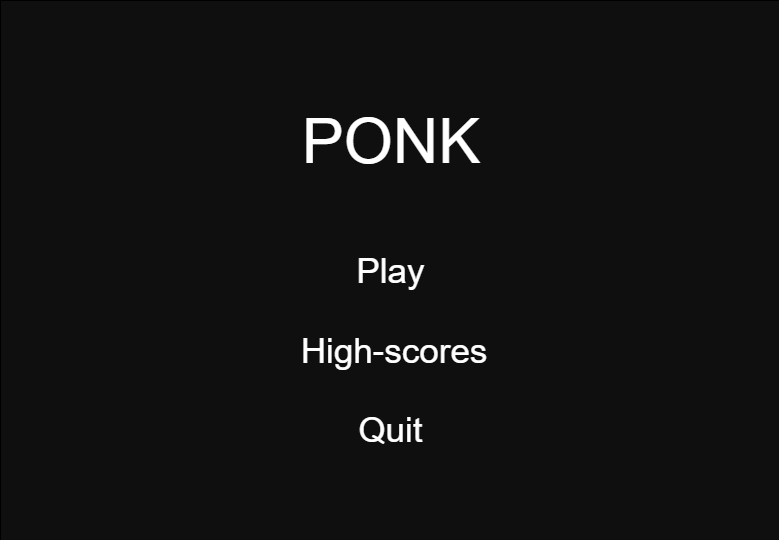
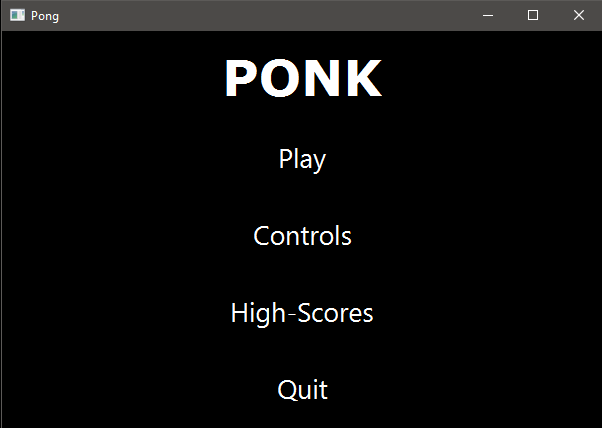
Päivitetty dokumentaatiota

diff --git a/dokumentointi/arkkitehtuuri.md b/dokumentointi/arkkitehtuuri.md
@@ -2,7 +2,7 @@
 
 ## Rakenne
 
-![Pakkauskaavio](kuvat/pakkauskaavio_v2.png)
+![Pakkauskaavio](kuvat/pakkauskaavio_v3.png)
 
 Pakkaus _pong.ui_ sisältää JavaFX:n avulla toteutetun käyttöliittymän muodostavat luokat. Pakkaus _pong.domain_ sisältää sovelluslogiikasta vastaavat luokat ja pakkaus _pong.dao_ tiedon pysyväistallennuksesta vastaavan luokan.
 
@@ -12,15 +12,15 @@ Sovelluksen käyttöliittymä koostuu seitsemästä eri näkymästä:
 
 * päävalikko
 * kontrollit/käyttöohje
-* pelaajien nimensyöttö
+* pelaajien nimimerkinsyöttö
 * pelimuodon valinta
 * varsinainen pelinäkymä
 * pelin lopputulos
 * pistetilastot
 
-Näkymät on toteutettu JavaFX:n Scene-olioina, jotka tarvittaessa näytetään sovellusikkunan muodostavassa Stage-oliossa. Pelinäkymä on toteutukseltaan monimutkaisin, sillä se huolehtii käynnissä olevan pelin reaaliaikaisesta piirtämisestä käyttämällä pakkauksen _pong.domain_ sovelluslogiikkaluokkia ja kutsumalla niiden metodeja.
+Näkymistä suurin osa on toteutettu JavaFX:n Scene-olioita hyödyntävinä omina luokkinaan, joiden _display_-metodia kustsumalla näkymä asetetaan aktiiviseksi sovellusikkunan muodostavassa Stage-oliossa. Pelinäkymä on toteutukseltaan monimutkaisin, sillä se huolehtii käynnissä olevan pelin reaaliaikaisesta piirtämisestä käyttämällä pakkauksen _pong.domain_ sovelluslogiikkaluokkia ja kutsumalla niiden metodeja.
 
-Pelin lopputuloksen näyttävä näkymä ja pistetilastoista vastaava näkymä käyttävät lisäksi _pong.dao_ pakkauksen luokkaa _SQLScoreDAO_ tietokantaan kirjoittaessaan ja sieltä lukiessaan.
+Pelin lopputuloksen näyttävä näkymä ja pistetilastoista vastaava näkymä ulkoistavat tiedon pysyväistallennukseen liittyvän toiminnallisuuden _pong.domain_ pakkauksen luokalle _ScoreService_. 
 
 ## Sovelluslogiikka
 
@@ -28,17 +28,19 @@ Pelin toiminnallisuudesta vastaa sovelluslogiikkaluokat _Ball_ ja _Paddle_. Käy
 
 ![Luokkakaavio](kuvat/luokkakaavio.png)
 
-Yksittäisten aikarajoitettujen pelien lopputulokset tallennetaan pelin päättyessä tietokantaan, joten pelin pisteiden ja pelaajien nimien hallintaa varten tarvitaan _Score_-luokan tarjoama tietorakenne. Pakkauksesta _pong.dao_ löytyvä _SQLScoreDAO_ käyttää näitä _Score_-olioita tietokannan tiedon jäsentämiseen.
+Yksittäisten aikarajoitettujen pelien lopputulokset tallennetaan pelin päättyessä tietokantaan, joten pelin pisteiden ja pelaajien nimien hallintaa varten käytössä on _Score_-luokan tarjoama tietorakenne. Pakkauksesta _pong.dao_ löytyvä _SQLScoreDAO_ käyttää näitä _Score_-olioita tiedon jäsentämiseen tietokannan ulkopuolella.
+
+_ScoreService_-luokan tehtävä on tarjota käyttöliittymälle _pong.dao_ pakkauksesta löytyvää tiedon tallennukseen ja lukemiseen liittyvää toiminnallisuutta. _ScoreService_ käyttää _ScoreDAO_-rajapinnan toteuttavaa _SQLScoreDAO_:a tiedon tallentamiseksi tietokantaan.
 
 ## Tiedon pysyväistallennus
 
-Pakkauksen _pong.dao_ luokka _SQLScoreDAO_ käyttää jdbc:n sqlite-kirjastoa pisteiden tietokantaan tallennukseen ja pisteiden hakemiseen tietokannasta. Tällä hetkellä käyttöliittymä käyttää _SQLScoreDAO_:a suoraan, mutta tavoitteena on ulkoistaa sen käyttö sopivalle sovelluslogiikkaluokalle.
+Pakkauksen _pong.dao_ luokka _SQLScoreDAO_ käyttää jdbc:n sqlite-kirjastoa pisteiden tietokantaan tallennukseen ja pisteiden hakemiseen tietokannasta. Käyttöliittymä käyttää sovelluslogiikasta vastaavan _pong.domain_-pakkauksen _ScoreService_-luokkaa _SQLScoreDAO_:n tarjoamien palveluiden kutsumiseen.
 
 ## Tiedostot
 
 Sovellus tallentaa pelattujen aikarajoitettujen pelien lopputulokset tietokantaan. Sovelluksen juurihakemistossa oleva konfiguraatiotiedosto _config.properties_ määrittelee käytettävän tietokannan nimen, joten sitä on mahdollista vaihtaa sovelluksen ulkopuolelta.
 
-Tietokantaan pisteet talletetaan seuraavassa formaatissa:
+Otteluiden loppupisteet talletetaan tietokantaan seuraavassa formaatissa:
 
 <pre>
 CREATE TABLE score (
@@ -61,3 +63,17 @@ Todellisuudessa pelinäkymästä vastaava käyttöliittymäluokka _PongUI_ luo p
 ![Sekvenssikaavio1](kuvat/PaddleSeqDiagram.png)
 
 Tästä sekvenssikaaviosta on jätetty pois palloon liittyvät metodikutsut, ja pyritty korostamaan vain mailojen liikuttamiseen liittyvää toiminnallisuutta. Päävalikon Play-painiketta klikkaamalla siirrytään pelinäkymään. Pelinäkymässä käytetään hajautustaulua pohjassa pidettyjen näppäinten seuraamiseksi. AnimationTimer-luokan handle-metodissa tarkisteaan onko pelin kannalta merkittäviä näppäimiä painettuna. Jos esimerkiksi 'W' on painettuna, kutsuu _PongUI_ vasemmanpuoleiseen mailaan viittaavan leftPaddle-olion metodia move, jolle on annettu parametriksi -10 kuvaamaan kymmenen askeleen siirtymää ylöspäin näkymän Y-akselilla. Move-metodi itse huolehtii, ettei siirtymä aiheuta mailan poistumista pelialueen ulkopuolelle.
+
+**Pallon liikkuminen**
+
+_PongUI_-luokassa toimiva JavaFX:n AnimationTimer ja sen handle-metodi piirtää ruudulle pallon ja kutsuu jokaisella tulevalla piirtokerralla _Ball_-luokan metodia _update_, joka päivittää pallon suhteellisia X- ja Y-koordinaatteja sen attribuutteina olevien X- ja Y-nopeuksien mukaisesti. _Update_-metodi tekee myös samalla tarkistuksia pallon sijannista. Jos pallon Y-koordinaatti on ylittämässä pelialueen rajat, pallo palautetaan rajojen sisäpuolelle ja sen Y-nopeus käännetään. Jos pallo osuu pelialueen vasempaan tai oikeaan laitaan, pallo palautetaan pelialueen keskelle ja vastakkaiselle pelaajalle lisätään piste.
+
+Jotta pelistä saataisiin mielenkiintoisempi, arvotaan pallon lähtösuunta ja -kulma aina pallon keskelle palauttavan _reset_-metodin kutsun yhteydessä metodin _randomizeDircetionAndSpeed_ avulla. Välttääkseen tilanteen, jossa pallon lähtökulma olisi liian suuri ja pallo jäisi kimpoilemaan ylä- ja alareunojen välille, metodi valitsee lähtökulman 45 ja -45 asteen väliltä ja 50% todennäköisyydellä lähtösuunta on vastakkainen.
+
+Liikkuvan pallon toiminnan esittäminen sekvenssikaaviona on haastavaa, joten jätän sen piirtämättä.
+
+**Pisteiden tallentaminen**
+
+Aikarajoitetun ottelun päätteeksi sovellus siirtyy "Game Over" -näkymään, jossa lopullinen pistetilanne myös esitetään. Pakkauksesta _pong.ui_ löytyvä käyttöliittymäluokka _GameOver_ luo lopputulosta vastaavan _Score_-olion ja uuden _SQLScoreDAO_-olion. _SQLScoreDAO_:n konstruktorissa haetaan metodilla _getScoreFile_ sovelluksen suoritushakemistosta tiedoston _config.properties_ sisältämä tieto luotavan tietokannan tiedostonimestä, ja luodaan kyseinen tietokanta, jollei sellaista ole jo olemassa. Tietokantaan luodaan myös tarvittava _Score_-taulu, mikäli sitä ei ole jo luotu.
+
+_GameOver_ luo myös _ScoreService_-olion, jolle konstruktorin kautta injektoidaan aiemmin luotu _SQLScoreDAO_. _ScoreService_ käyttää injektoidun DAO:n metodeja tarjotakseen käyttöliittymälle sen tarvitseman tiedon tallennuspalvelun.

diff --git a/dokumentointi/vaatimusmaarittely.md b/dokumentointi/vaatimusmaarittely.md
@@ -4,7 +4,7 @@
 
 Sovelluksen avulla kaksi käyttäjää voi pelata jaetulla näppäimistöllä klassisen Pong-videopelin kaltaista yksinkertaista peliä. Pelissä osapuolet liikuttavat pelikentän oikealla tai vasemmalla puolella olevia "mailoja" pystyakselin suuntaisesti tarkoituksenaan kerätä pisteitä kimmottamalla pelikentällä liikkuva pallo vastustajan puoleiseen laitaan ja torjumalla vastapuolen yrityksiä tehdä maaleja.
 
-## Käyttöliittymäluonnos
+## Käyttöliittymä
 
 Sovelluksen kaksi tärkeintä näkymää ovat sen päävalikko ja itse pelinäkymä.
 
@@ -13,20 +13,21 @@ Sovelluksen kaksi tärkeintä näkymää ovat sen päävalikko ja itse pelinäky
 
 ![Pelinäkymä](kuvat/pelinakyma.png)
 
-Sovellus aukeaa päävalikkonäkymään, josta on mahdollista siirtyä pelinäkymään tai muihin mahdollisiin näkymiin.
+Sovellus aukeaa käynnistyessään päävalikkonäkymään, josta on mahdollista siirtyä muihin näkymiin.
 
-## Perusversion tarjoama toiminnallisuus
+## Sovelluksen tarjoama toiminnallisuus
 
 * käyttäjä voi aloittaa ja keskeyttää pelin
+* pelaajille annetaan nimimerkit mahdollista tulosten tallennusta varten
+* pelissä on kaksi pelitilaa, aikarajoitetettu minuutin mittainen peli ja päättymätön pelitila
 * pelissä molempia mailoja liikutetaan näppäimistön avulla, mikä mahdollistaa kaksinpelin
-* liikkuvan pallon osuminen mailaan aiheuttaa asianmukaisen kimpoamisen
-* pallon osuessa vastustajan päätyyn, maalin tekijälle lisätään piste ja peli jatkuu aloitustilanteesta
+* liikkuvan pallon osuminen mailaan tai pelikentän reunoihin aiheuttaa asianmukaisen kimpoamisen
+* pallon osuessa vastustajan päätyyn, maalin tekijälle lisätään piste ja pallo palautuu keskelle pelialuetta
+* pallon lähtösuunta ja -kulma arvotaan joka kerta kun pallo palautuu keskelle maalin tai uuden pelin aloituksen johdosta
+* aikarajoitetun pelin päätteeksi ottelun pistetilanne tallennetaan tietokantaan
+* aikaisempien otteluiden tuloksia voi tarkastella päävalikosta löytyvän High-Score -näkymän kautta
 
 ## Jatkokehitysideoita
 
-Perustoiminnallisuuksien toteuttamisen jälkeen sovellusta voidaan täydentää esim. seuraavilla ominaisuuksilla:
-
-* pelimuotoina erikseen aikarajoitettu- ja rajoittamaton peli
-* huippupisteiden tai -aikojen tallentaminen tiedostoon tai tietokantaan ja niiden tarkastelu
-* yksinkertainen tekoäly, joka mahdollistaa yksinpelin
-* vaihtoehtoisia pelikenttiä, joissa mukana myös esteitä tms.
+* yksinkertainen tekoäly, joka mahdollistaisi myös yksinpelin
+* asetusvalikko, josta mm. sovellusikkunan, mailojen ja pallon kokoa voisi vaihtaa

diff --git a/dokumentointi/kayttoohje.md b/dokumentointi/kayttoohje.md
@@ -4,7 +4,7 @@ Lataa tiedosto [pong.jar](https://github.com/TimoJarvenpaa/ot-harjoitustyo/relea
 
 ## Konfigurointi
 
-Ohjelma olettaa, että sen käynnistyshakemistossa on konfiguraatiotiedosto _config.properties_, joka määrittelee pistetilastot tallettavan tietokannan tiedostonimen. Tiedoston muoto on seuraava
+Ohjelma olettaa, että sen käynnistyshakemistossa on konfiguraatiotiedosto _config.properties_, joka määrittelee pistetilastot tallettavan tietokannan tiedostonimen. Konfiguraatiotiedoston sisältö on seuraavanlainen
 
 ```
 scoreFile=score.db
@@ -23,19 +23,35 @@ java -jar pong.jar
 
 Sovelluksen päävalikosta voi valita **Play**, **Controls**, **High-Scores** tai **Quit**.
 
+![Päävalikkonäkymä](kuvat/paavalikkonakyma.png)
+
 ### Play
 
 *Play*-nappia painamalla siirrytään näkymään, jossa syötetään molemmille pelaajille nimet. Nimi ei saa sisältää välilyöntejä, ja sen täytyy olla 3 merkkiä pitkä. Jos nimi on pidempi, sen kolme ensimmäistä merkkiä muodostaa pelaajan nimen. Nimien syöttämisen jälkeen tulee painaa *Continue*-painiketta.
 
+![Nimienvalintanäkymä](kuvat/PlayerNames_nakyma.PNG)
+
 Seuraavassa näkymässä valitaan pelimuoto. *Endless Mode* on aikarajoittamaton pelimuoto, josta voi poistua painamalla *ESC*-näppäintä. *Time Limit (60 seconds)* tarjoaa minuutin mittaisen pelin, jonka päätteeksi pelin lopputulos esitetään Game Over -ruudussa. Lopputulos tallennetaan lisäksi sovelluksen käyttämään tietokantaan.
+
+![Pelimuotonäkymä](kuvat/GameMode_nakyma.PNG)
+
+![Game Over -näkymä](kuvat/GameOver_nakyma.PNG)
+
+Varsinaisessa pelinäkymässä vasemmanpuoleista mailaa voi liikuttaa ylöspäin näppäimistön W-painikkeella ja alaspäin S-painikkeella. Oikeanpuoleista mailaa liikutetaan vastaavasti ylös- ja alaspäin osoittavilla nuolinäppäimillä. Käynnistyneen pelin voi keskeyttää painamalla ESC-näppäintä, joilloin siirrytään takaisin päävalikkoon. Mikäli aikarajoitettu peli keskeytetään, sen pisteitä ei tallenneta tietokantaan.
+
+![Pelinäkymä](kuvat/pelinakyma.png)
 
 ### Controls
 
 *Controls*-nappia painamalla pääsee katselemaan pelissä käytettäviä kontrolleja ja niitä vastaavia näppäinkomentoja.
 
+![Kontrollinäkymä](kuvat/Controls_nakyma.PNG)
+
 ### High-Scores
 
 *High-Scores*-nappia painamalla pääsee tarkastelemaan aiempien aikarajoitettujen pelien pistetilastoja, mikäli sellaisia löytyy. Pisteet haetaan sovelluksen käyttämästä tietokannasta.
+
+![High-Scores -näkymä](kuvat/HighScores_nakyma.PNG)
 
 ### Quit
 

diff --git a/dokumentointi/testaus.md b/dokumentointi/testaus.md
@@ -18,13 +18,13 @@ Sovelluksen *dao*-pakkauksesta löytyvää *SQLScoreDAO*:a on testattu luokassa 
 
 Sovelluksen testauksessa on saavutettu 86% rivikattavuus ja 79% haarautumakattavuus. Testikattavuusraportin ulkopuolelle on jätetty käyttöliittymän muodostavat luokat. Yksityiskohtaisempaa tarkastelua varten testikattavuusraportin voi luoda komennolla ```mvn test jacoco:report```
 
-![testikattavuus](kuvat/testikattavuus.png)
+![testikattavuus](kuvat/testikattavuus.PNG)
 
 Testien ulkopuolelle jääneet rivit ja haaraumat koostuvat pääasiassa pallon liikkumiseen liittyvistä toiminnallisuuksista. En kokenut mielekkääksi testata niitä kaikkia, sillä pallon sijainti pitäisi näissä tilanteissa manuaalisesti ensin asettaa ja sitten tarkistaa.
 
 ## Järjestelmätestaus
 
-Sovelluksen käyttöliittymän kautta tehtävä järjestelmätestaus on suoritettu käsin.
+Sovelluksen käyttöliittymän kautta tehtävä järjestelmätestaus on suoritettu käsin kokeilemalla mm. vaatimusmäärittelyssä listattuja toiminnallisuuksia.
 
 ### Asennus ja konfigurointi
 

diff --git a/README.md b/README.md
@@ -12,13 +12,15 @@ Sovelluksen avulla kaksi pelaajaa voivat pelata jaetulla näppäimistöllä klas
 
 [Arkkitehtuurikuvaus](dokumentointi/arkkitehtuuri.md)
 
+[Testausdokumentti](dokumentointi/testaus.md)
+
 [Työaikakirjanpito](dokumentointi/tuntikirjanpito.md)
 
 ## Julkaistut versiot
 
-[Viikko 5](https://github.com/TimoJarvenpaa/ot-harjoitustyo/releases/tag/v1.0)
-
 [Viikko 6](https://github.com/TimoJarvenpaa/ot-harjoitustyo/releases/tag/v1.1)
+
+[Viikko 5](https://github.com/TimoJarvenpaa/ot-harjoitustyo/releases/tag/v1.0)
 
 ## Komentorivitoiminnot
 

diff --git a/dokumentointi/tuntikirjanpito.md b/dokumentointi/tuntikirjanpito.md
@@ -23,4 +23,9 @@
 |  | 2 | javadocin käyttöönotto ja alustava dokumentointi |
 |  | 1 | alustava käyttöohje |
 |  | 2 | arkkitehtuuridokumentin täydennys ja dokumentaation päivitys |
-| yht   | 42 | |
+| 3.5. | 2 | ScoreDAO:n käyttö ulkoistettu ScoreService-luokalle |
+| 4.5. | 1 | lisätty puuttuvia testejä |
+|  | 1 | JavaDoc viimeistelty |
+|  | 1 | testausdokumentti |
+| 5.5. | 3 | dokumentaatio viimeistelty |
+| yht   | 50 | |
